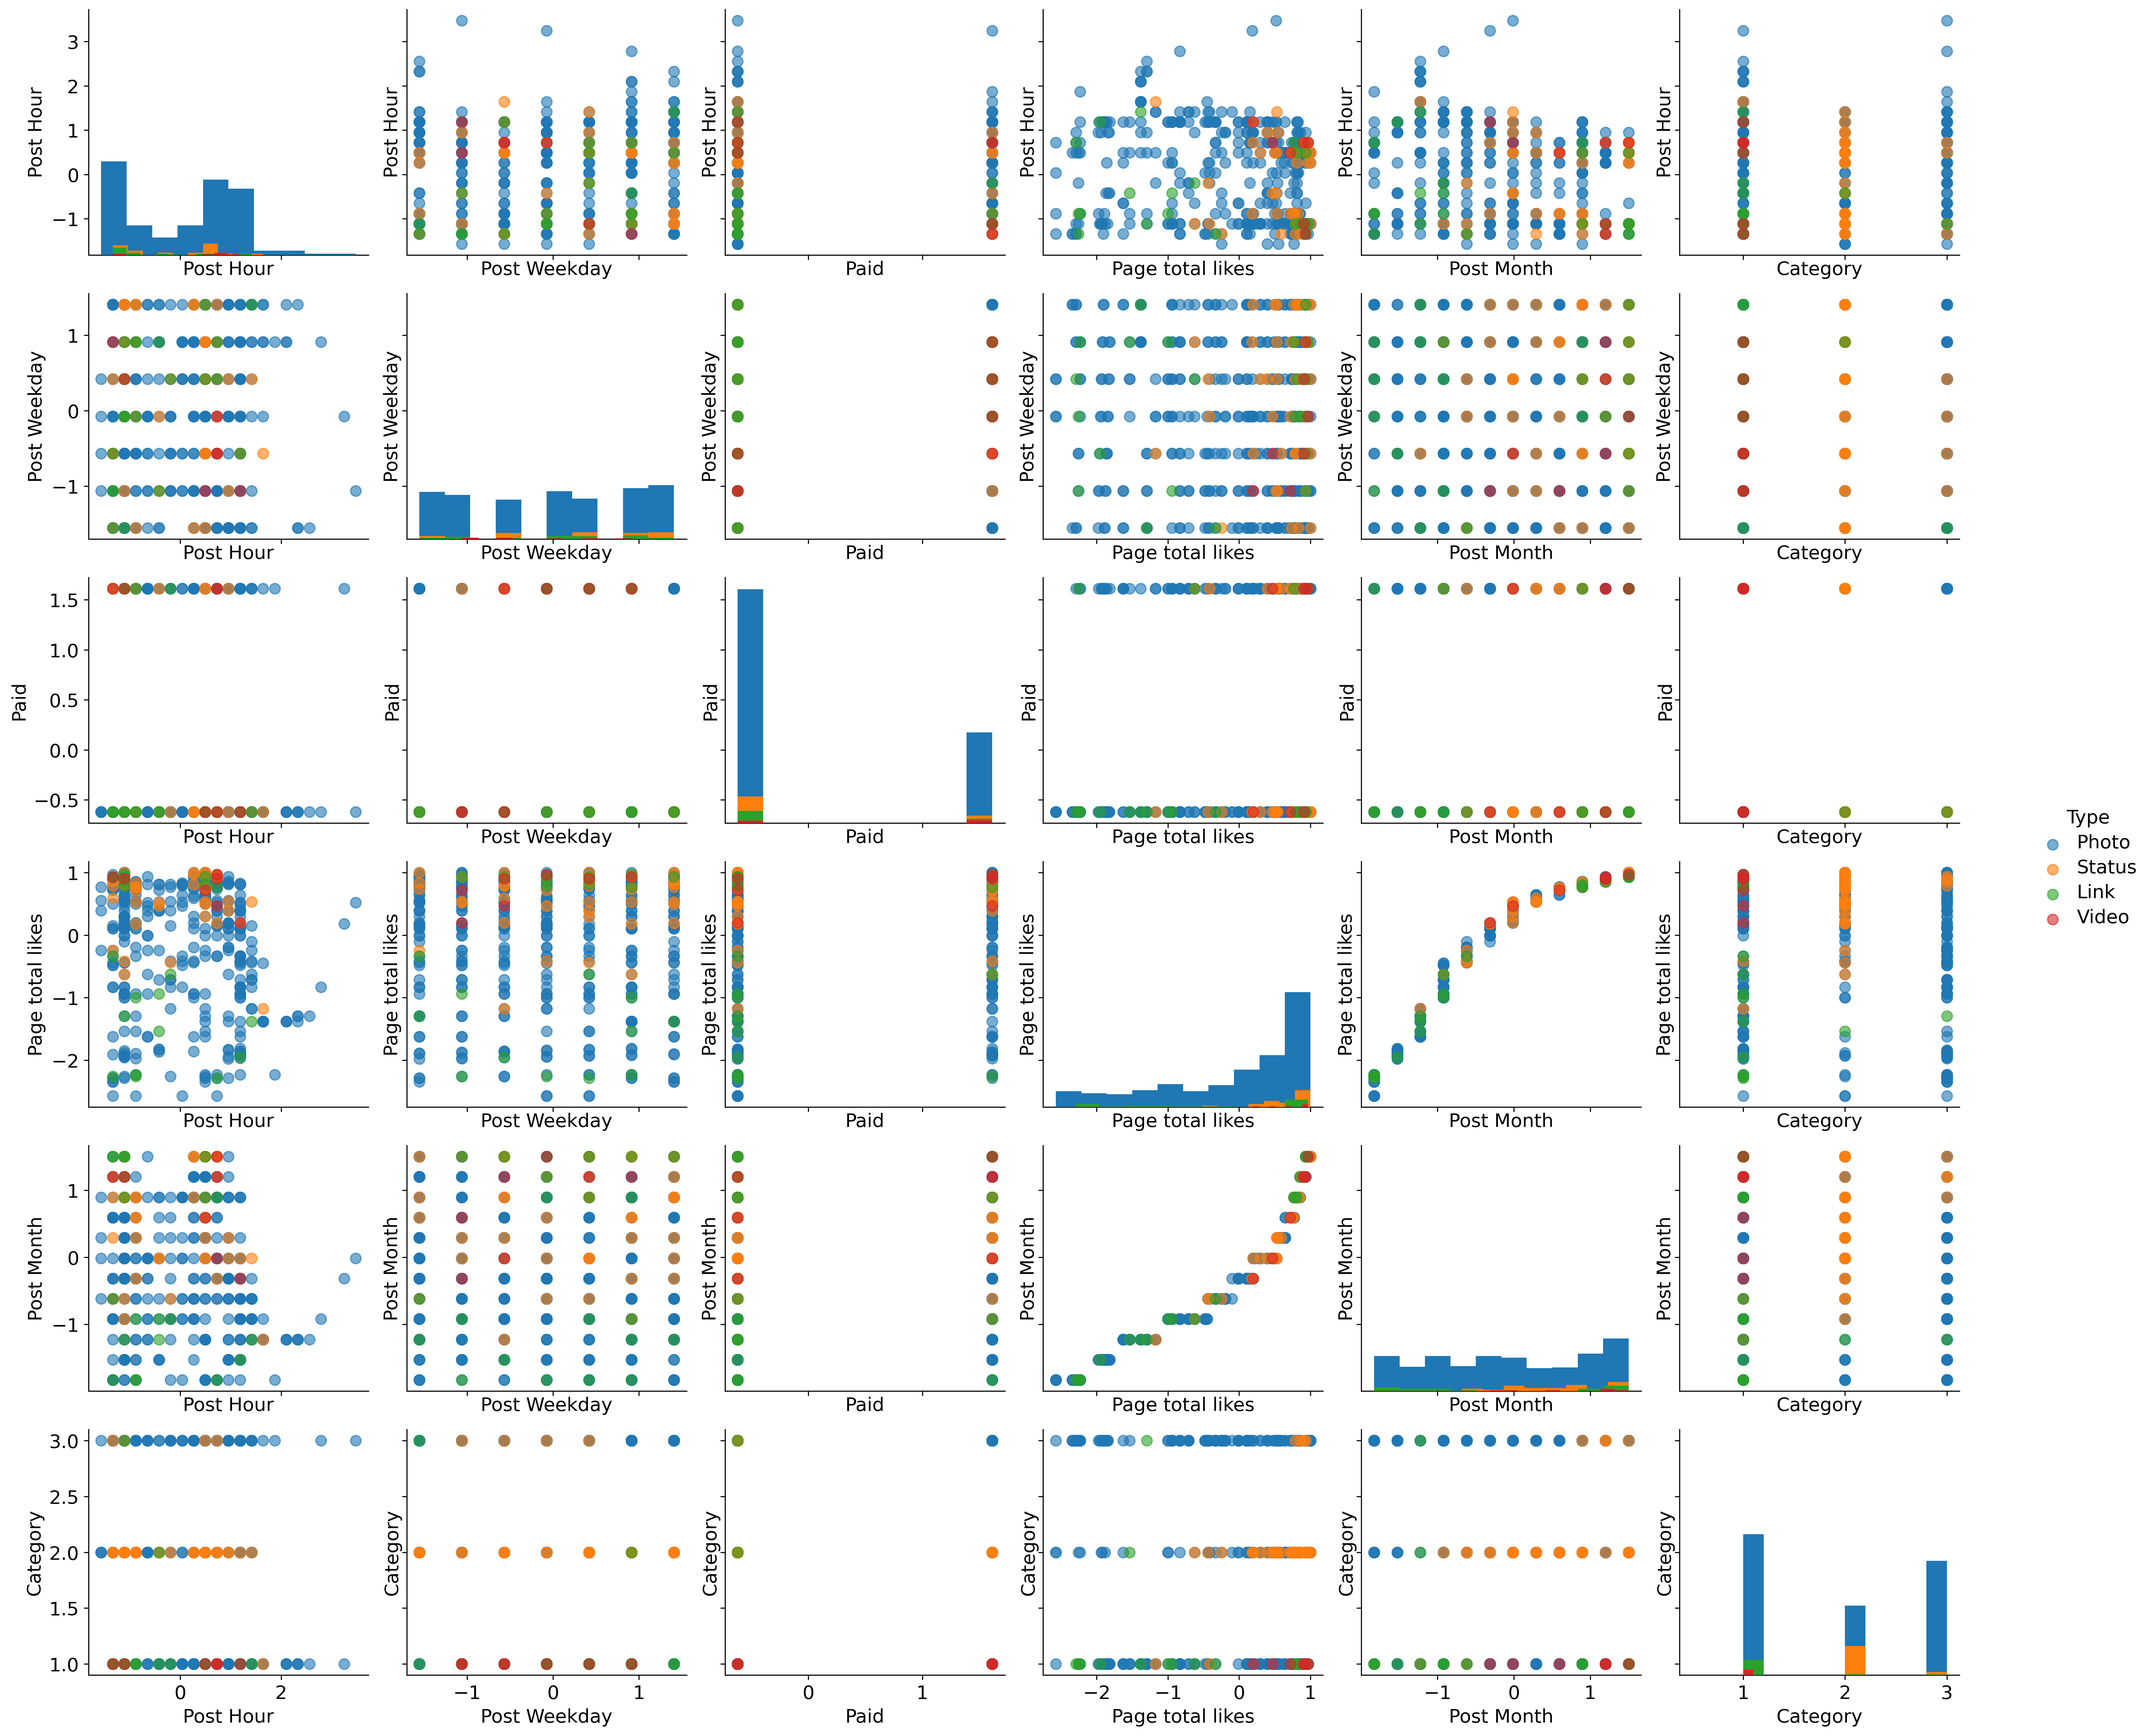
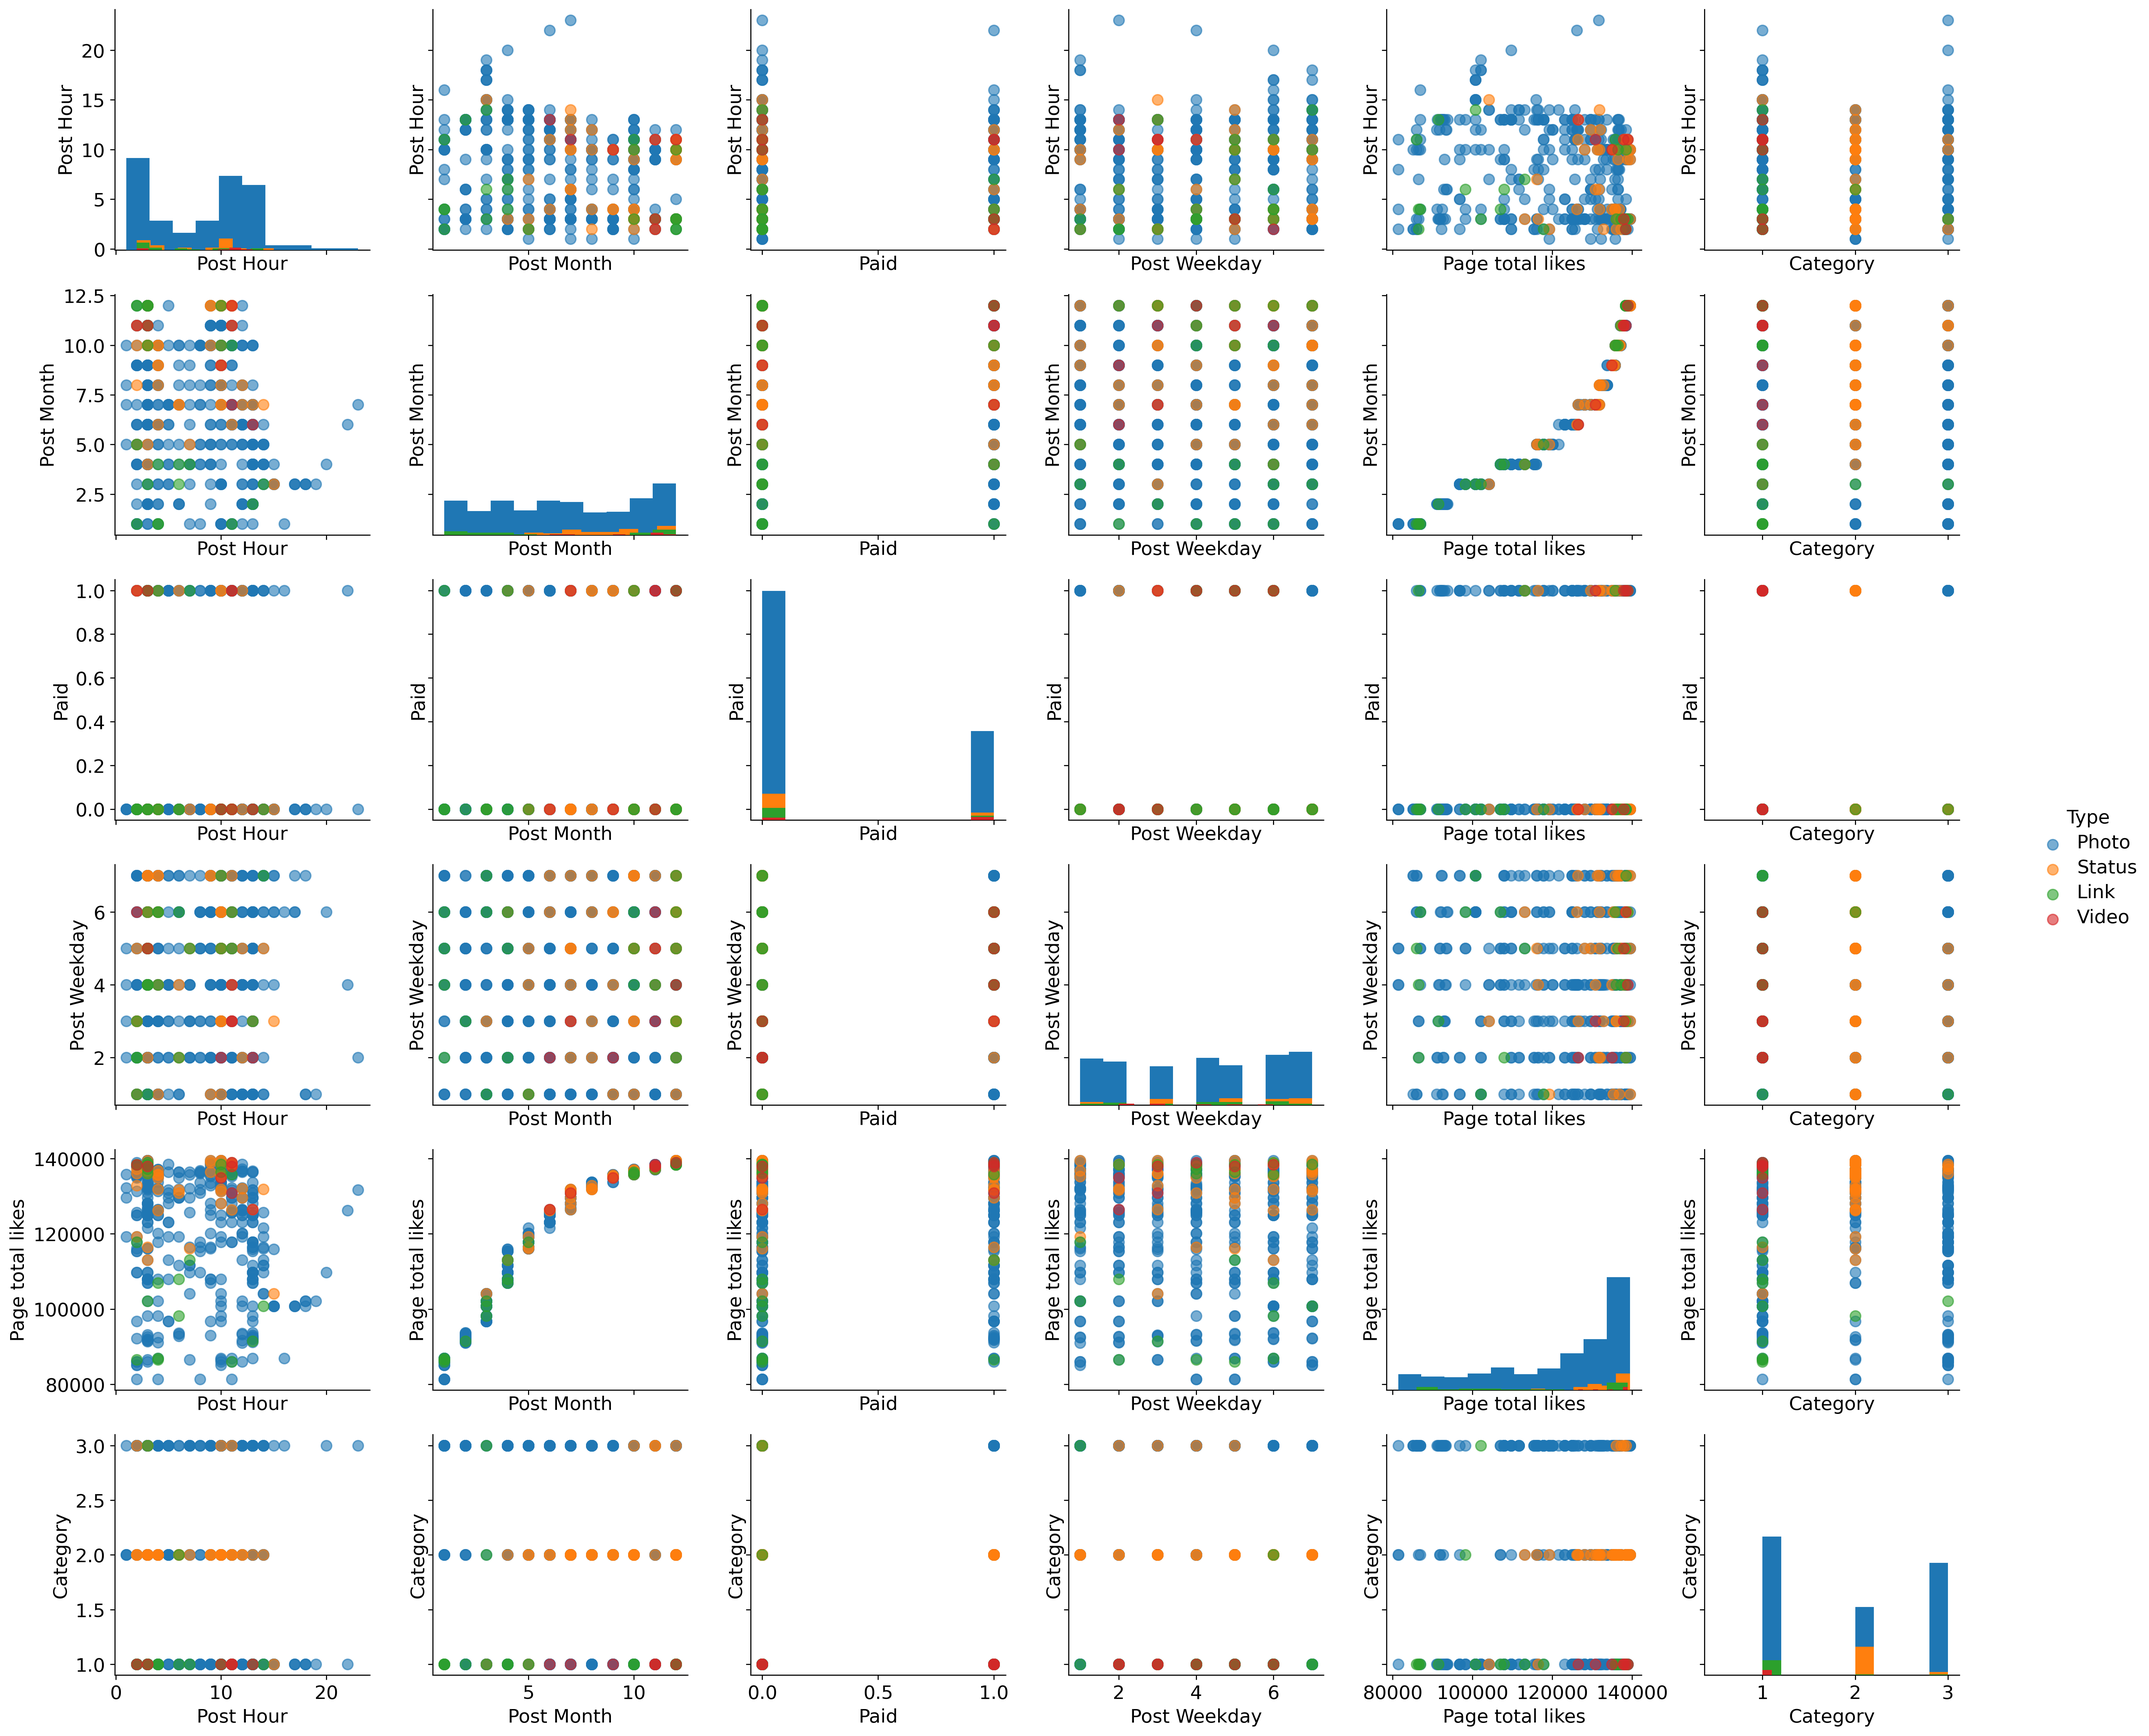
Non normalized numeric data in pair plot

diff --git a/pairplot.py b/pairplot.py
@@ -29,9 +29,10 @@ num_pipeline = Pipeline([
     ('std_scaler', StandardScaler())
 ])
 
-fb_df_num_tr = num_pipeline.fit_transform(fb_df[numeric_columns])
-fb_df_num = pd.DataFrame(fb_df_num_tr, columns=numeric_columns)
+# fb_df_num_tr = num_pipeline.fit_transform(fb_df[numeric_columns])
+# fb_df_num = pd.DataFrame(fb_df_num_tr, columns=numeric_columns)
 
+fb_df_num = fb_df[numeric_columns]
 fb_df_prepared = pd.concat([fb_df_num, fb_df[['Type', 'Category']]], axis=1)
 
 label_font_size = 14
